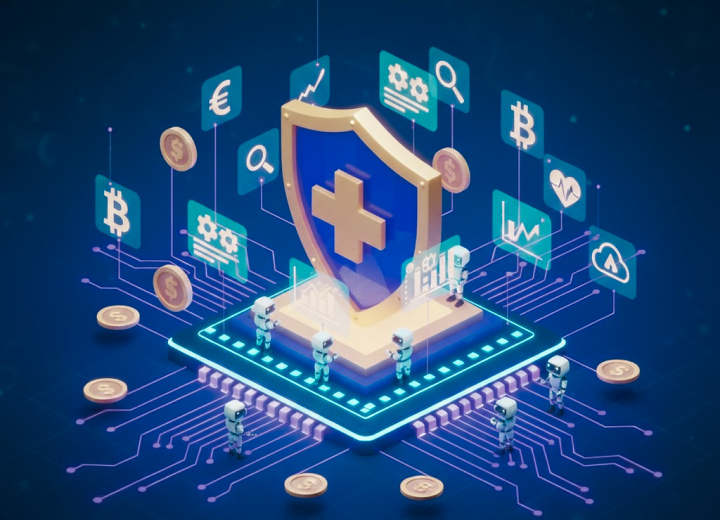
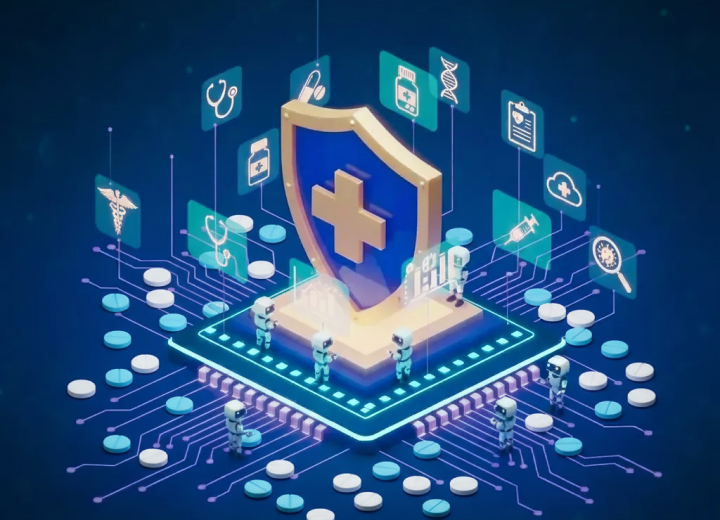
update project images

diff --git a/index.html b/index.html
@@ -37,7 +37,7 @@
         <h1>Designing Intelligent Experiences Beneath the Surface</h1>
         <p class="hero-sub">UX/UI designer crafting human-centered AI products with clarity, trust, and elegance.</p>
         <div class="hero-actions">
-          <a class="primary-btn" href="https://www.behance.net/gallery/242140471/UIUX-Portfolio-Dipo" target="_blank" rel="noopener noreferrer">View Portfolio</a>
+          <a class="primary-btn" href="https://medium.com/ux-planet/boost-ajaibs-ux-performance-72-faster-with-a-b-testing-system-usability-scale-sus-scoring-f708272deff7" target="_blank" rel="noopener noreferrer">View Case Study</a>
           <button class="ghost-btn" onclick="window.location.href='https://drive.google.com/file/d/1mWjwYPYMSvrRSXRi0E4jX3lLUWjG6iX4/view?usp=sharing'"> Download Resume</button>
         </div>
       </div>
@@ -117,19 +117,19 @@
           <img src="assets/projects/project-1.webp" alt="Abstract blue gradient" />
           <h3>HealthTech Claim AI</h3>
           <p>An AI-driven claim intelligence web application designed to assist insurance operations teams in effectively monitoring, analyzing, and optimizing health insurance claim processing in real-time. This advanced platform leverages artificial intelligence to provide comprehensive insights and actionable data.</p><br>
-          <button class="ghost-btn">View Case Study</button>
+          <button class="ghost-btn" onclick="window.location.href='https://www.behance.net/gallery/242140471/UIUX-Portfolio-Dipo'"> View Details</button>
         </article>
         <article class="project-card glass">
           <img src="assets/projects/project-2.webp" alt="Deep ocean blue" />
           <h3>AGIS — Agentic AI Platform</h3>
           <p>AGIS is a next-generation Al-powered knowledge management platform designed to capture, structure, and apply organizational knowledge efficiently.</p><br>
-          <button class="ghost-btn">View Case Study</button>
+          <button class="ghost-btn" onclick="window.location.href='https://www.behance.net/gallery/242140471/UIUX-Portfolio-Dipo'"> View Details</button>
         </article>
         <article class="project-card glass">
           <img src="assets/projects/project-3.webp" alt="Sky to sea tones" />
           <h3>Business Banking Financing Platform</h3>
-          <p>The Business Banking Financing Platform is a system designed to support small and medium enterprises (SMEs) in applying for business financing through Digital Bank. The product streamlines the end-to- end financing journey, from application submission to internal review and approval, while balancing user clarity, operational efficiency, and regulatory requirements.</p><br>
-          <button class="ghost-btn">View Case Study</button>
+          <p>The Business Banking Financing Platform is a system designed to support small and medium enterprises (SMEs) in applying for business financing through Digital Bank. The product streamlines the end-to-end financing journey, from application submission to internal review and approval.</p><br>
+          <button class="ghost-btn" onclick="window.location.href='https://www.behance.net/gallery/242140471/UIUX-Portfolio-Dipo'"> View Details</button>
         </article>
       </div>
     </section>
@@ -201,15 +201,15 @@
       <div class="contact-card glass">
         <form class="contact-form" id="contactFormBasin" action="https://usebasin.com/f/53960b8e9ba6" method="POST">
           <div class="input-group">
-            <label for="name">Name</label>
+            <label for="name">Your name</label>
             <input type="text" id="name" name="name" placeholder="Your name" required />
           </div>
           <div class="input-group">
-            <label for="email">Email</label>
+            <label for="email">Your email</label>
             <input type="email" id="email" name="email" placeholder="you@example.com" required />
           </div>
           <div class="input-group">
-            <label for="message">Project details</label>
+            <label for="message">Tell me about your project</label>
             <textarea id="message" name="message" rows="4" placeholder="Tell me about your AI or UX challenge" required></textarea>
           </div>
           <button type="submit" class="primary-btn submit-btn">Send Message</button>
